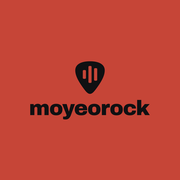
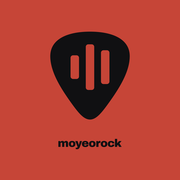
feat: 앱 아이콘 피크를 크게, 글자는 아래쪽에 작게
세로형 로고를 그대로 얹던 것을, 피크를 500px(1024 기준)로 키워 위쪽에 두고
moyeorock 글자를 360px 폭으로 줄여 아래쪽에 둔다. 둘 다 마스커블 안전 영역 안.

Changed region(s): [[0.1667, 0.1667, 0.8333, 0.6667], [0.3056, 0.75, 0.6944, 0.8333]]

diff --git a/index.html b/index.html
@@ -2,8 +2,8 @@
 <html lang="ko">
   <head>
     <meta charset="UTF-8" />
-    <!-- 앱 아이콘: 주홍(#C64537) 바탕 + 검은 세로형 로고(피크 + moyeorock). 원본은 Figma "Brand — 앱 아이콘"(574:23689).
-         홈 화면용 PNG는 모서리를 OS가 깎으니 꽉 찬 정사각형으로 두고, 로고는 마스커블 안전 영역(지름 80%) 안에 있다.
+    <!-- 앱 아이콘: 주홍(#C64537) 바탕 + 검은 피크(크게) + 아래쪽 작은 moyeorock 글자. 원본은 Figma "Brand — 앱 아이콘"(574:23689).
+         홈 화면용 PNG는 모서리를 OS가 깎으니 꽉 찬 정사각형으로 두고, 피크와 글자 모두 마스커블 안전 영역(지름 80%) 안에 있다.
          브라우저 탭 파비콘은 글자가 안 읽히는 크기라 피크 심볼만 쓴다. -->
     <link rel="icon" type="image/svg+xml" href="/favicon.svg" />
     <link rel="icon" type="image/png" sizes="32x32" href="/favicon-32.png" />
